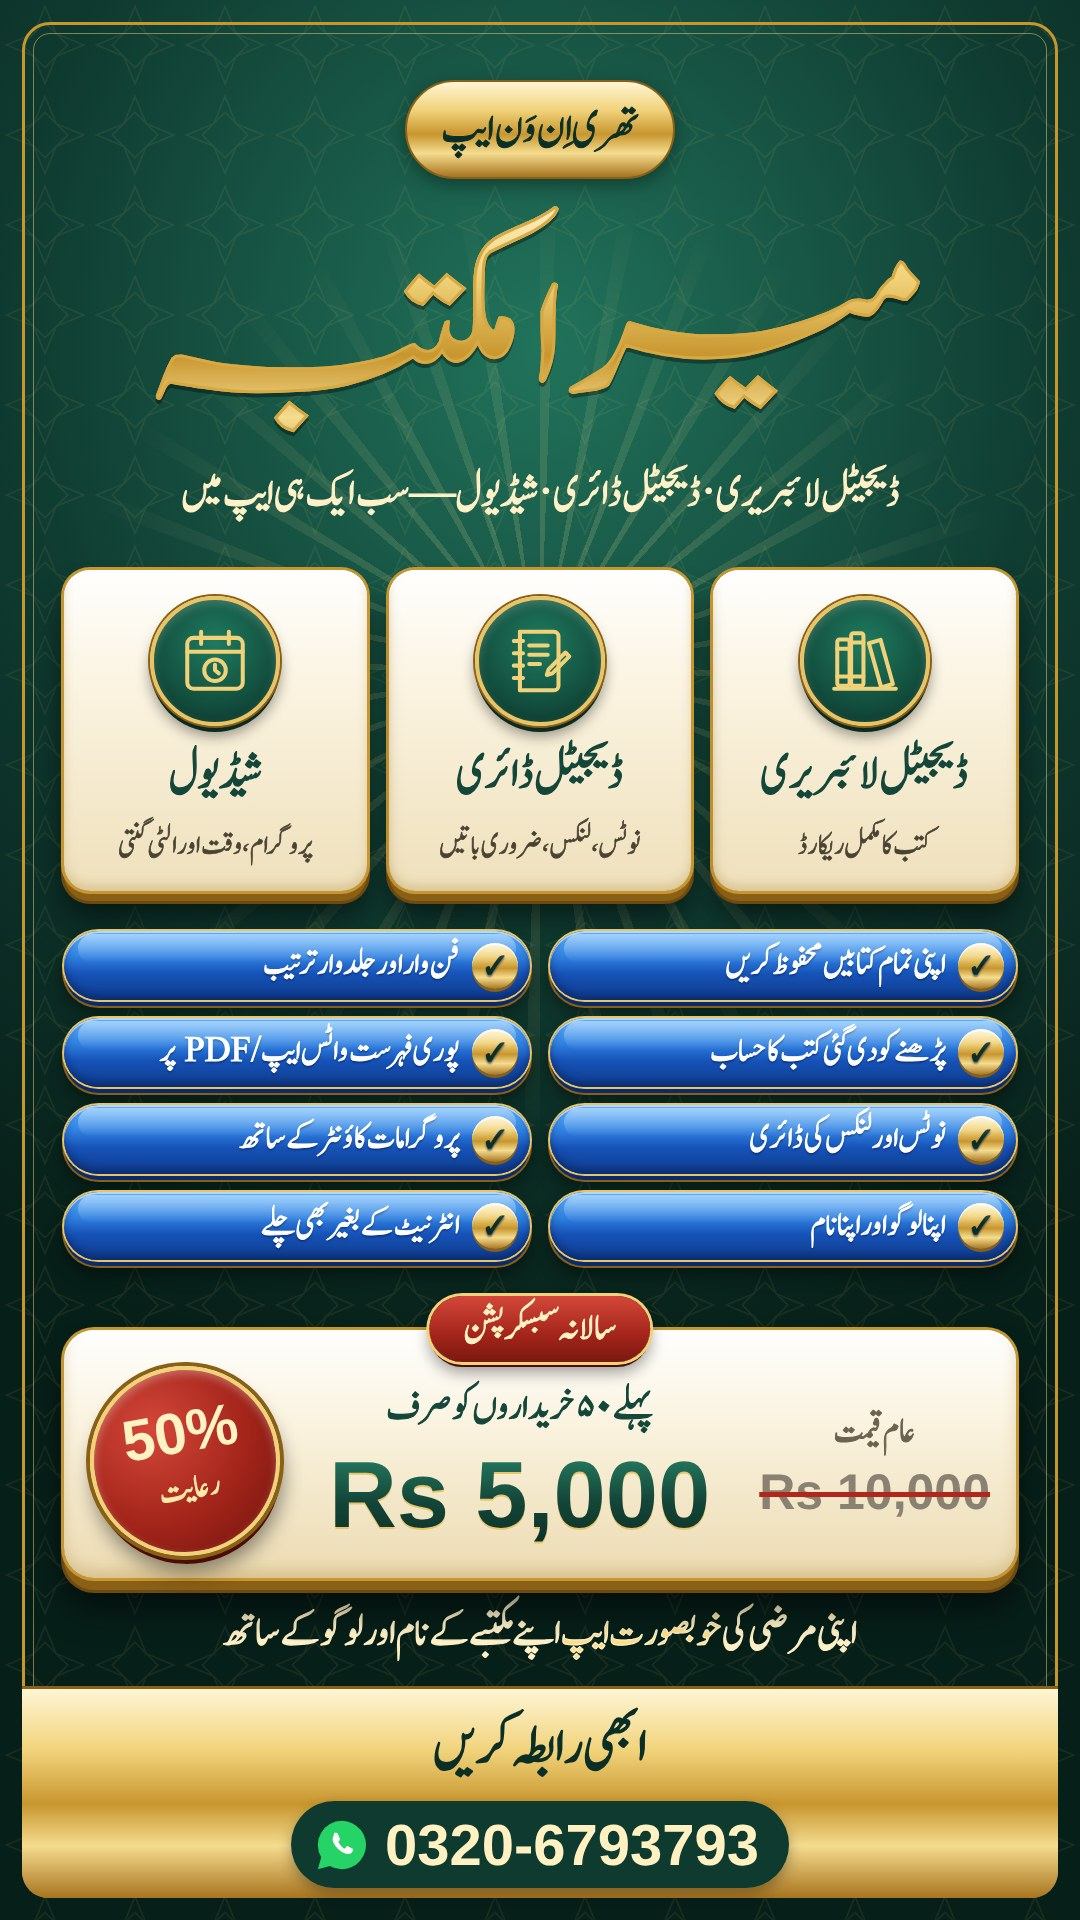
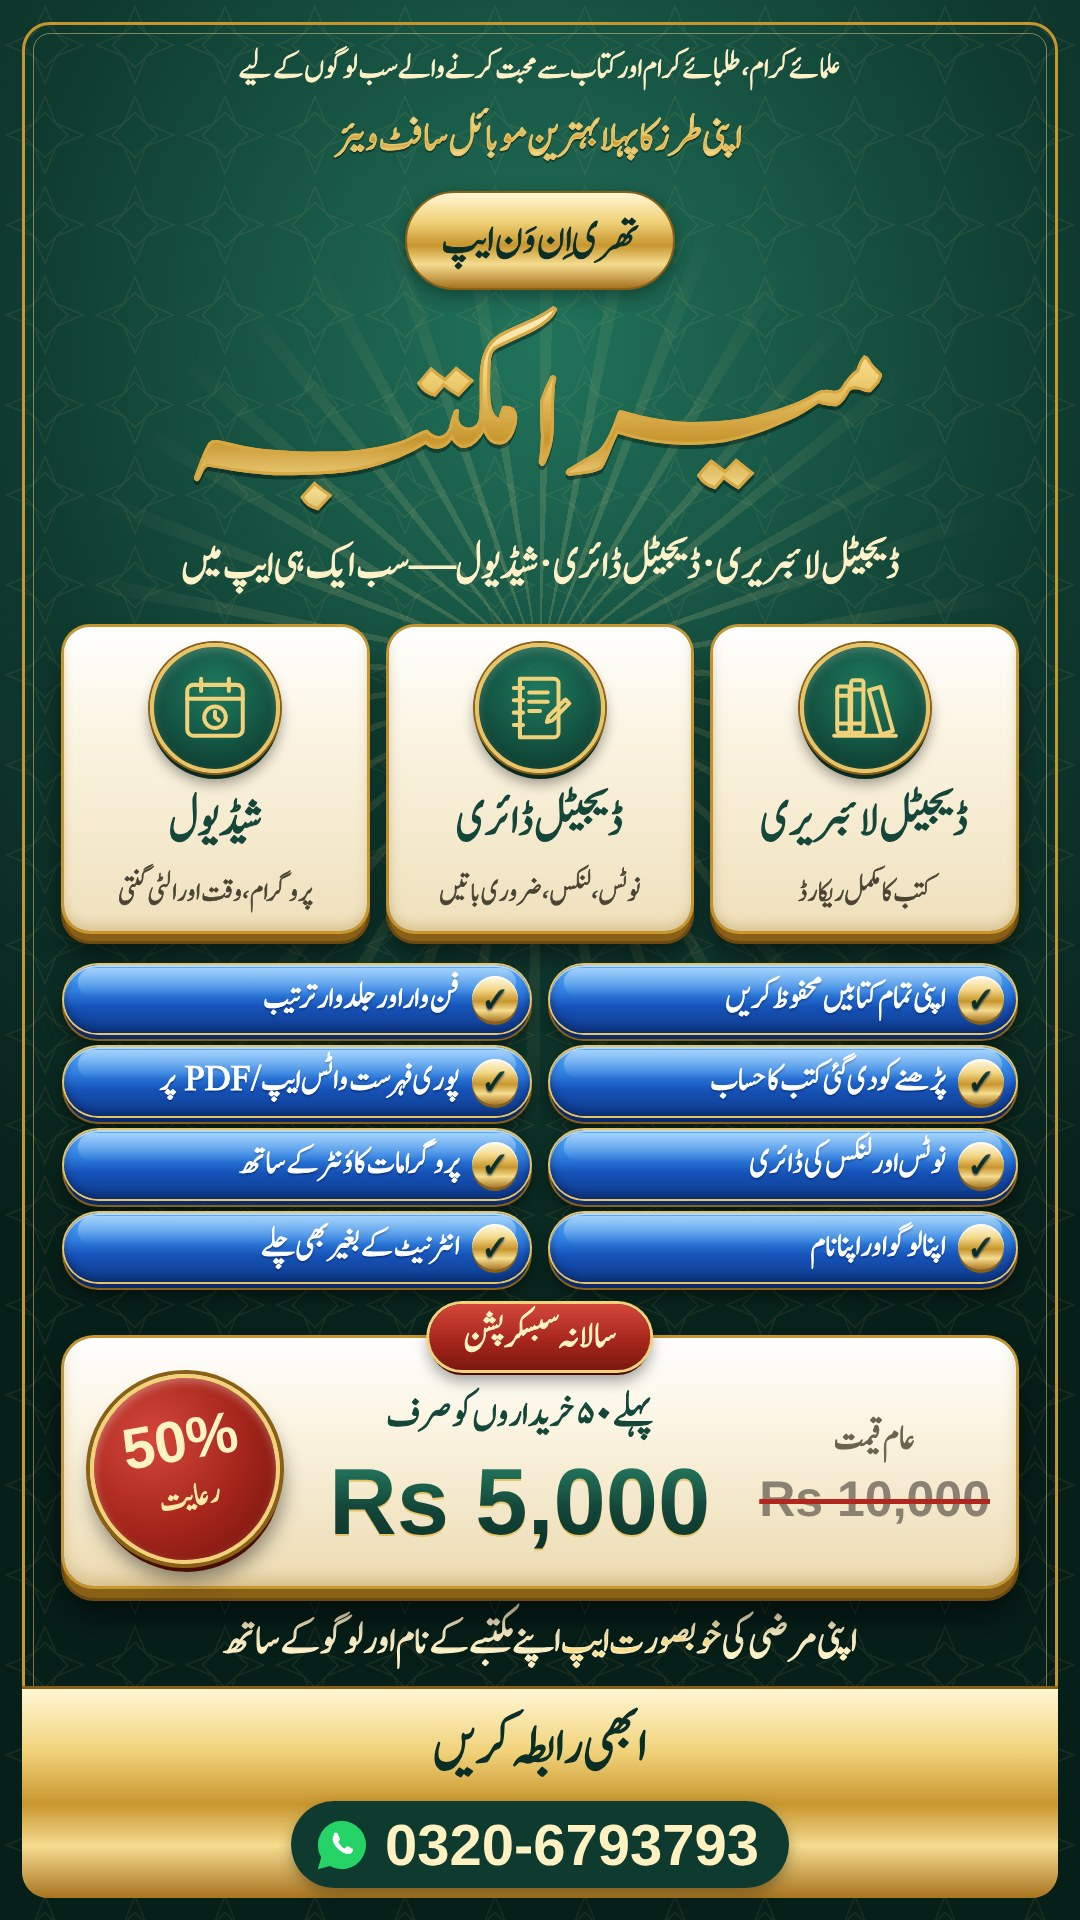
MA810TH054: پوسٹر میں «علمائے کرام، طلبائے کرام…» والا جملہ
Claude-Session: https://claude.ai/code/session_01FJQdwk5UXiHtiPUwAbxXCM

diff --git a/maktaba.html b/maktaba.html
@@ -12,7 +12,7 @@
 <link rel="icon" type="image/png" sizes="16x16" href="icons/favicon-16.png">
 <link rel="apple-touch-icon" href="icons/apple-touch-icon.png">
 <link rel="preload" href="fonts/jnn-kasheeda-title3.woff" as="font" type="font/woff" crossorigin>
-<link rel="stylesheet" href="style.css?v=MA810TH053">
+<link rel="stylesheet" href="style.css?v=MA810TH054">
 </head>
 <body data-b-title>
 <div class="wrap">
@@ -32,7 +32,7 @@
       <div class="status">
         <a class="chip chip-btn" id="btnMain" href="./" style="text-decoration:none">🏠 مین</a>
         <span class="chip" id="netChip"><span class="dot"></span><span class="lbl" id="netLbl">آن لائن</span></span>
-        <span class="chip" id="verChip">MA810TH053</span>
+        <span class="chip" id="verChip">MA810TH054</span>
         <button class="chip chip-btn" id="btnBackup" type="button" aria-expanded="false" aria-controls="backupBox">بیک اپ</button>
         <button class="chip chip-btn" id="btnLogout" type="button">🚪 لاگ آؤٹ</button>
         <button class="chip chip-btn" id="btnClose" type="button">⏻ ایپ بند</button>
@@ -113,12 +113,12 @@
   </button>
 </nav>
 
-<script src="app.js?v=MA810TH053"></script>
-<script src="share.js?v=MA810TH053"></script>
-<script src="drive.js?v=MA810TH053"></script>
-<script src="programs.js?v=MA810TH053"></script>
-<script src="license.js?v=MA810TH053"></script>
-<script src="brand.js?v=MA810TH053"></script>
+<script src="app.js?v=MA810TH054"></script>
+<script src="share.js?v=MA810TH054"></script>
+<script src="drive.js?v=MA810TH054"></script>
+<script src="programs.js?v=MA810TH054"></script>
+<script src="license.js?v=MA810TH054"></script>
+<script src="brand.js?v=MA810TH054"></script>
 <script>
 // بیک اپ خانہ کھولنا/بند کرنا
 document.getElementById('btnBackup').addEventListener('click', e => {

diff --git a/index.html b/index.html
@@ -122,7 +122,7 @@ body::before{
 button.chip{cursor:pointer}
 [hidden]{display:none !important}
 
-/* MA810TH053: ابھرے ہوئے 3D دروازے */
+/* MA810TH054: ابھرے ہوئے 3D دروازے */
 .doors{gap:24px !important;perspective:900px}
 .door{border:0 !important;overflow:hidden;
   background:linear-gradient(180deg,#ffffff 0%,#fbf4e2 38%,#efe0bb 100%) !important;
@@ -185,12 +185,12 @@ button.chip{cursor:pointer}
 
   <footer class="foot">
     <span class="chip" id="netChip"><span class="dot"></span><span class="lbl" id="netLbl">آن لائن</span></span>
-    <span class="chip">MA810TH053</span>
+    <span class="chip">MA810TH054</span>
     <button type="button" class="chip link" data-b-edit data-b-filled><span class="lbl">✎ پہچان بدلیں</span></button>
     <a class="chip link" href="privacy.html"><span class="lbl">پرائیویسی</span></a>
   </footer>
 </main>
-<script src="brand.js?v=MA810TH053"></script>
+<script src="brand.js?v=MA810TH054"></script>
 <script>
 (function () {
   const chip = document.getElementById('netChip'), lbl = document.getElementById('netLbl');

diff --git a/diary/index.html b/diary/index.html
@@ -1452,7 +1452,7 @@
     <button type="button" onclick="refreshApp()" title="تازہ کریں" style="background:#111;border:1px solid #444;color:#f5d87a;font-size:0.85rem;border-radius:50%;width:26px;height:26px;cursor:pointer;line-height:1;flex-shrink:0;">🔄</button>
   </div>
   <div style="text-align:center;padding:0 0 4px;background:#0a1a0f;flex-shrink:0;">
-    <span id="appVersionDisplay" style="font-size:0.68rem;font-weight:700;color:#f5d87a;">ورژن: MA810TH053</span>
+    <span id="appVersionDisplay" style="font-size:0.68rem;font-weight:700;color:#f5d87a;">ورژن: MA810TH054</span>
   </div>
 
   <!-- TOOLS BAR (always visible, compact) -->
@@ -1720,7 +1720,7 @@
 <script>
 
 // ===== APP VERSION =====
-const APP_VERSION = 'MA810TH053';
+const APP_VERSION = 'MA810TH054';
 
 // ===== PWA: SERVICE WORKER REGISTRATION (آف لائن سپورٹ) =====
 if ('serviceWorker' in navigator) {

diff --git a/app.js b/app.js
@@ -1,4 +1,4 @@
-/* مکتبۃ العزیز — ایپ کا کوڈ (ورژن MA810TH053) */
+/* مکتبۃ العزیز — ایپ کا کوڈ (ورژن MA810TH054) */
 (() => {
   'use strict';
 
@@ -765,7 +765,7 @@
   // ---------- بھیجنا (share.js) ----------
   window.MA_SHARE = { data: () => ({ books: db.books, cats: cats() }), toast };
   window.MA_DRIVE_HOST = {
-    version: 'MA810TH053',
+    version: 'MA810TH054',
     toast,
     snapshot: () => ({ books: db.books, cats: db.cats, catNames: db.catNames, loanLog: db.loanLog, progs: db.progs, lic: window.MA_LIC ? window.MA_LIC.export() : undefined, brand: window.MA_BRAND ? window.MA_BRAND.get() : undefined }),
     replace: d => { db = normDb(d); save(); route(); if (d && d.lic && window.MA_LIC) window.MA_LIC.import(d.lic); if (d && d.brand && window.MA_BRAND) window.MA_BRAND.set(d.brand); }

diff --git a/style.css b/style.css
@@ -1482,7 +1482,7 @@ html,body{overflow-x:hidden;max-width:100%}
 .emblem.gold::before{inset:0;border:0;border-radius:50%;z-index:2;background:linear-gradient(115deg,transparent 30%,rgba(255,255,255,.85) 48%,rgba(255,255,255,.15) 54%,transparent 66%);background-size:260% 100%;background-position:130% 0;mix-blend-mode:soft-light;animation:emShine 3.6s ease-in-out 1s infinite}
 @keyframes emShine{0%{background-position:130% 0}60%,100%{background-position:-40% 0}}
 
-/* MA810TH053: مکتبے کی پہچان — ہر صارف کا اپنا لوگو اور نام */
+/* MA810TH054: مکتبے کی پہچان — ہر صارف کا اپنا لوگو اور نام */
 .emblem{cursor:pointer}
 .emblem.no-logo{display:none !important}
 .emblem.custom-logo img{opacity:1 !important;width:84%;height:84%;border-radius:50%;object-fit:contain}

diff --git a/sw.js b/sw.js
@@ -1,7 +1,7 @@
 /* مکتبۃ العزیز — Service Worker
    ہر نئے ورژن پر VERSION بدل دیں تاکہ پرانا کیش صاف ہو جائے۔
    فونٹس الگ مستقل کیش میں رہتے ہیں، ورژن بدلنے پر دوبارہ ڈاؤن لوڈ نہیں ہوتے۔ */
-const VERSION = 'MA810TH053';
+const VERSION = 'MA810TH054';
 const CACHE = `maktaba-aziz-${VERSION}`;
 const FONT_CACHE = 'maktaba-aziz-fonts-v1';
 
